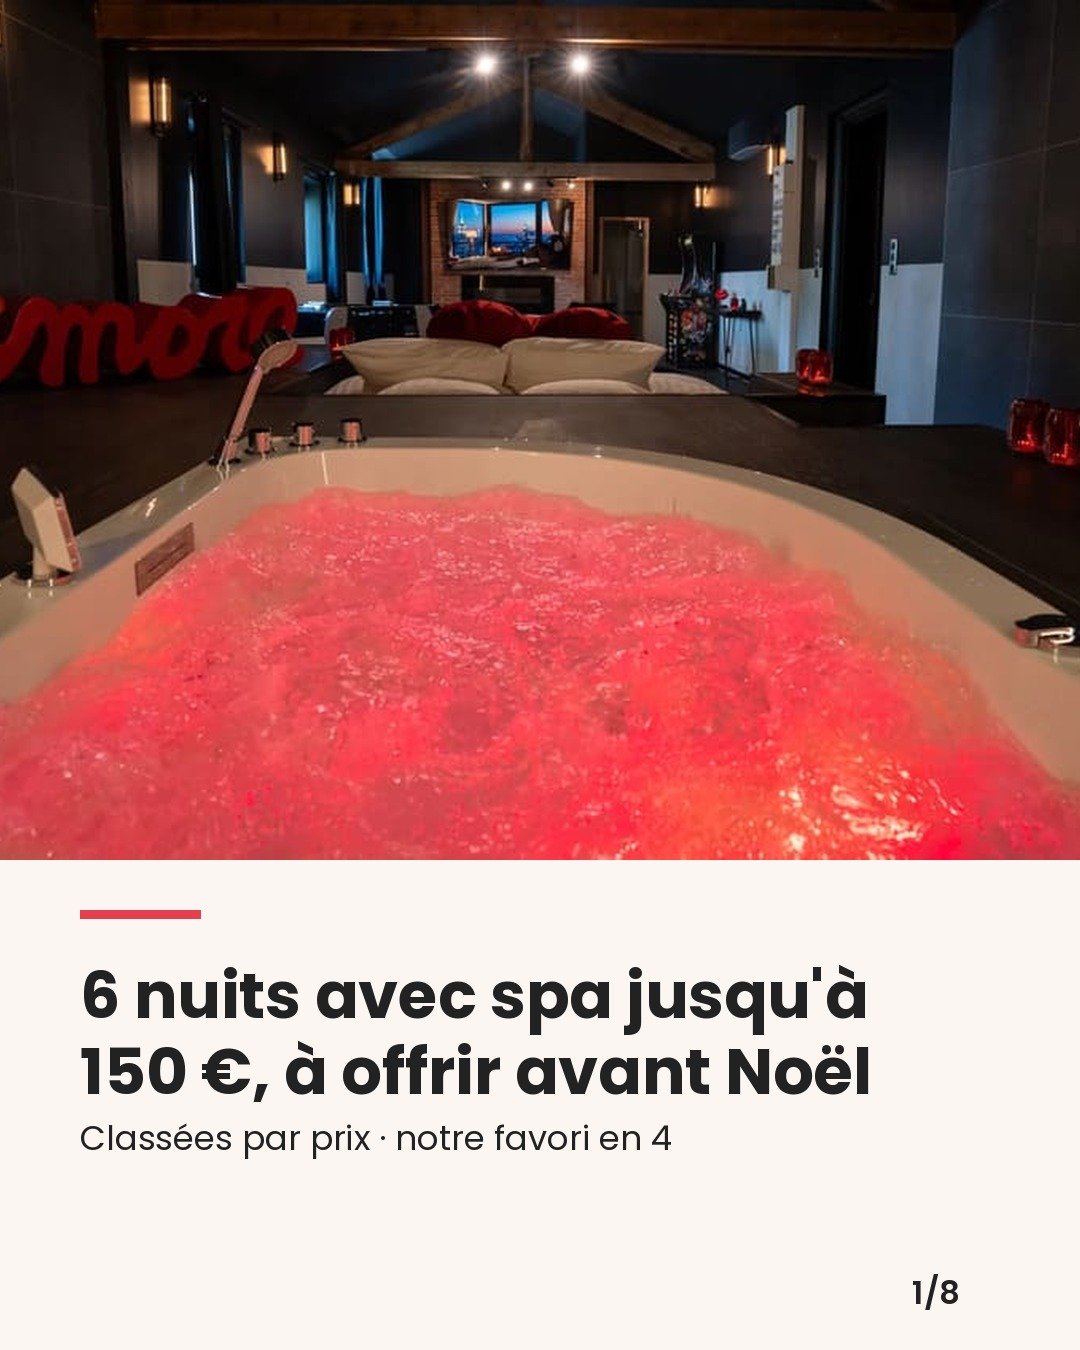
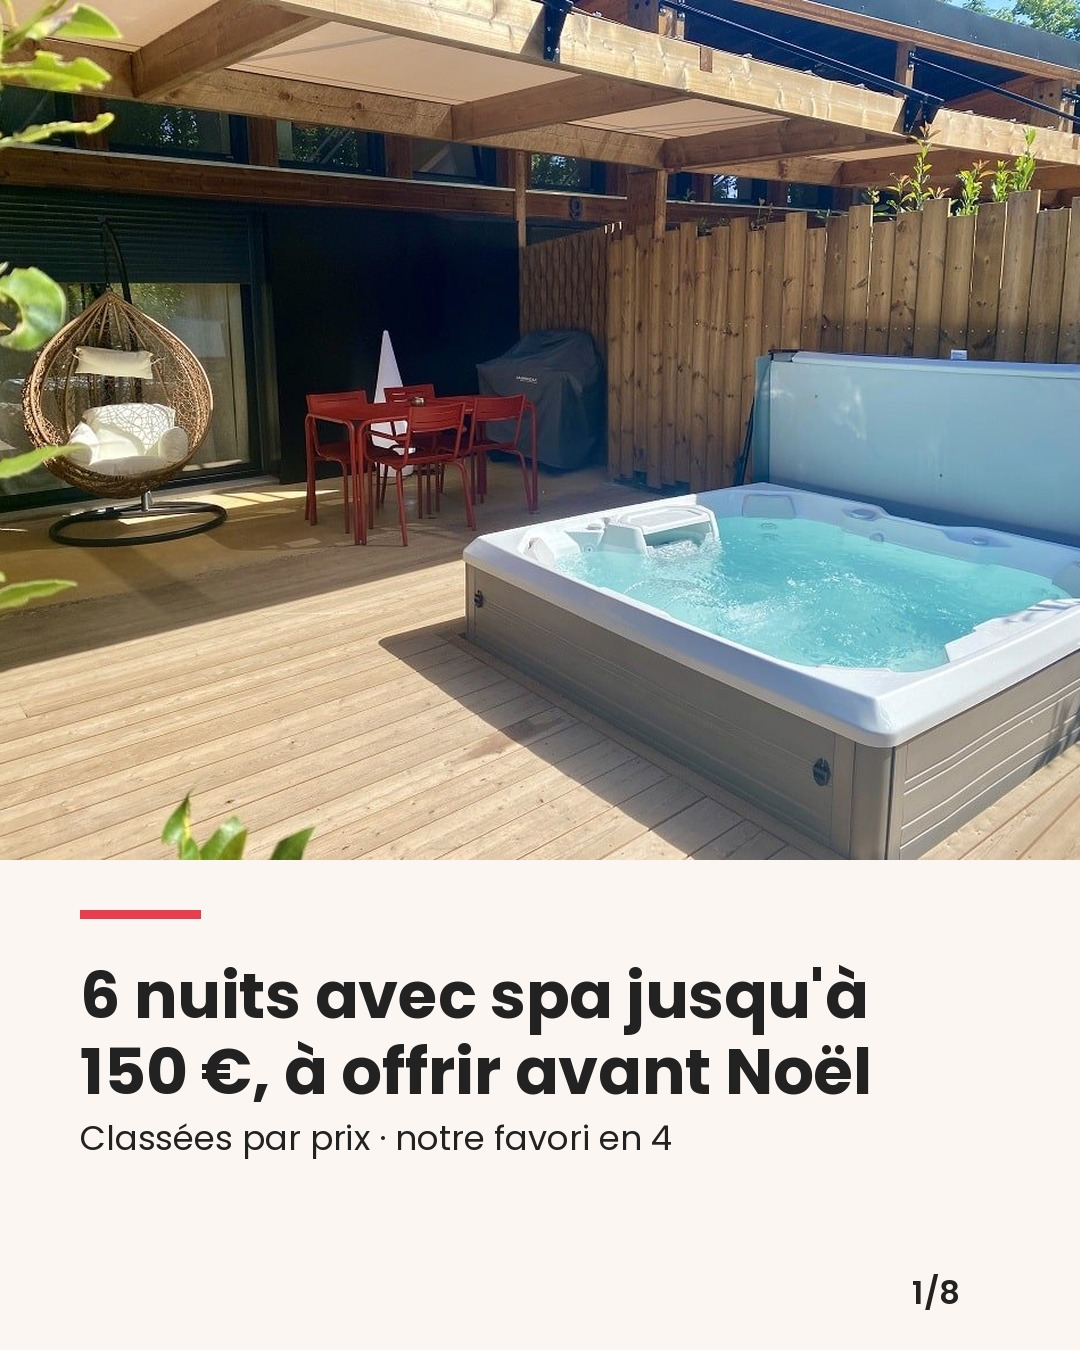
J4 v5 : logement inédit pour le couple (planificateur), couverture de sélection sans doublon ni image sous droits
Claude-Session: https://claude.ai/code/session_01UXhdvpytnNTyQfYDMgSLFL

diff --git a/social/s4_planification/planifier.py b/social/s4_planification/planifier.py
@@ -181,7 +181,10 @@ def plan_week(start, catalogue, history, strat, partenaires=None, site=""):
                 slot["statut"] = "BLOQUE"
                 alerts.append(f"{d}: aucune sélection de {strat['taille_selection']} logements possible")
         elif slot["moteur"] == "couple":
-            slot.update(theme=strat["couple"][wk % len(strat["couple"])], offres=[],
+            # logement de la dernière diapositive : jamais vu dans la semaine (revue J4 : pas de doublon de logement)
+            fin = sorted([f for f in pool if f["handle"] not in taken], key=lambda f: score(f, strat, wk), reverse=True)[:1]
+            taken.update(f["handle"] for f in fin)
+            slot.update(theme=strat["couple"][wk % len(strat["couple"])], offres=fin,
                         lien=utm(strat, site + strat["liens"]["couple"], "couple", d))
         slots.append(slot)
     slots += cases_soutien(start, slots, pool, strat, site)

diff --git a/social/tests/test_planifier.py b/social/tests/test_planifier.py
@@ -76,6 +76,13 @@ class TestPlanWeek(unittest.TestCase):
         handles = [f["handle"] for s in p["cases"] if s["format"] != "STORY" for f in s.get("offres") or []]
         self.assertEqual(len(handles), len(set(handles)))
 
+    def test_couple_gets_unseen_lodging(self):
+        p = planifier.plan_week(date(2026, 11, 18), catalogue(), [], STRAT)
+        c = next(x for x in p["cases"] if x["moteur"] == "couple")
+        autres = {o["handle"] for x in p["cases"] if x["moteur"] in ("lieu", "selection", "concours") for o in x.get("offres") or []}
+        self.assertEqual(len(c["offres"]), 1)
+        self.assertNotIn(c["offres"][0]["handle"], autres)
+
     def test_support_cases_stories_and_monthly_recruitment(self):
         p = planifier.plan_week(date(2026, 11, 30), catalogue(), [], STRAT)  # semaine du 30/11 : mercredi 2 décembre
         stories = [c for c in p["cases"] if c["moteur"] == "story"]

diff --git a/.claude/skills/social-production/SKILL.md b/.claude/skills/social-production/SKILL.md
@@ -312,4 +312,4 @@ Non couvert ou non sourcé par la compilation :
 - **Reel lieu** : champ `reel_plans` (une photo regardée par plan, `texte` de 6 mots au plus ou vide, `duree` de 0,5 à 1,5 s, `cadrage` auto, entier, gauche, centre ou droite pour exclure un logo). Plein cadre 9:16 en mouvement dès la première image, coupes franches, 15 s au moins, accroche au premier plan, l'atout du logement au début et à la fin. Musique intégrée au fichier, tirée de `marques/<id>/musique/licences.json` (CC0 d'abord ; CC BY : crédit ajouté à la légende). Jamais de Reel muet.
 - **Carrousels** : sélection classée par prix, `favori` (badge « Notre favori », photo de couverture prise dans le favori), `photos_logements` ; couple : grand texte centré, question finale, logement en dernière diapositive ; concours : « CONCOURS » en couverture, `photos_supplementaires` pour montrer le lot.
 - **Temps fort** : évoqué dans chaque post (S6 avertit sinon).
-- **Revue visuelle obligatoire** : après le rendu, regarder chaque plan et chaque diapositive (texte cohérent avec la photo, aucun logo tiers, aucun équipement exclu, ni alcool en avant, ni personne identifiable sans accord), puis inscrire `revue_visuelle` (`statut`, `empreinte` = `controle.empreinte(contenu)`, `remarques`) et lancer `python3 -m social.s5_production.produire <dossier> --marque <id> --verdict-seul`. Une revue faite sur une autre version du contenu est refusée.
+- **Revue visuelle obligatoire** : après le rendu, regarder chaque plan et chaque diapositive (texte cohérent avec la photo, aucun logo tiers, aucun équipement exclu, ni alcool en avant, ni personne identifiable sans accord, ni texte incrusté par l'hébergeur, ni écran montrant un film ou une œuvre sous droits, ni logement déjà montré dans la semaine), puis inscrire `revue_visuelle` (`statut`, `empreinte` = `controle.empreinte(contenu)`, `remarques`) et lancer `python3 -m social.s5_production.produire <dossier> --marque <id> --verdict-seul`. Une revue faite sur une autre version du contenu est refusée.
